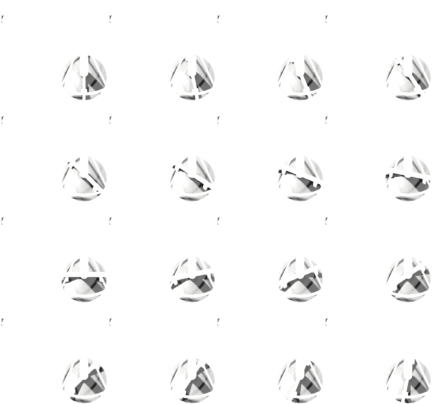
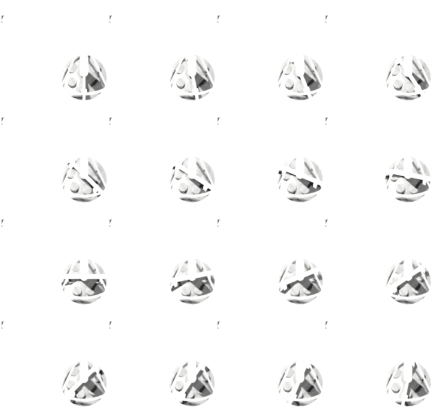
liquid obj update

diff --git a/tools/blender/factorio_render.py b/tools/blender/factorio_render.py
@@ -180,6 +180,75 @@ def torus_at(loc, major, minor, material, rot=(0, 0, 0), segments=40):
     return o
 
 
+def perforated_drum(x, y, z, r_out, wall, h, m, rows=6, per_row=24,
+                    hole_r=0.045, stagger=True, verts=48, name="drum"):
+    """A thin-walled cylinder drilled with a grid of round holes.
+
+    Standing in front of something lit - a glowing rotor, a culture, a flame
+    - the holes are what make it read as a screen rather than as a painted
+    tube. A ring of separate bars does not: at 64 px a tile the gaps between
+    bars close up and it goes back to being a tube.
+
+    The pattern repeats every 360/per_row degrees, and a staggered row is
+    offset by half of one step, so every row shares that same symmetry. A
+    Spin over the sheet must therefore turn the drum by a whole number of
+    steps or the loop jumps - assert it at the call site, the way the fan
+    blades do.
+    """
+    bpy.ops.mesh.primitive_cylinder_add(vertices=verts, radius=r_out,
+                                        depth=h, location=(x, y, z))
+    shell = bpy.context.object
+    shell.name = name
+    shell.data.materials.append(m)
+
+    # Bore and holes are two separate booleans on purpose. Joined into one
+    # cutter they would overlap each other, and the exact solver is much
+    # happier subtracting two clean meshes than one self-intersecting one.
+    bpy.ops.mesh.primitive_cylinder_add(vertices=verts, radius=r_out - wall,
+                                        depth=h + 0.02, location=(x, y, z))
+    bore = bpy.context.object
+
+    step = 2 * math.pi / per_row
+    holes = []
+    for i in range(rows):
+        cz = z - h / 2 + h * (i + 0.5) / rows
+        off = step / 2 if (stagger and i % 2) else 0.0
+        for k in range(per_row):
+            a = k * step + off
+            bpy.ops.mesh.primitive_cylinder_add(
+                vertices=12, radius=hole_r, depth=wall * 4,
+                location=(x + (r_out - wall / 2) * math.cos(a),
+                          y + (r_out - wall / 2) * math.sin(a), cz),
+                rotation=(0, math.pi / 2, a))
+            holes.append(bpy.context.object)
+
+    # One join and one solve. A modifier per hole would be a hundred and
+    # fifty boolean solves every time build() runs, and it runs once per
+    # facing per pass.
+    bpy.ops.object.select_all(action='DESELECT')
+    for o in holes:
+        o.select_set(True)
+    bpy.context.view_layer.objects.active = holes[0]
+    bpy.ops.object.join()
+    drill = bpy.context.object
+
+    for cutter in (bore, drill):
+        mod = shell.modifiers.new("cut", 'BOOLEAN')
+        mod.operation = 'DIFFERENCE'
+        mod.object = cutter
+        bpy.context.view_layer.objects.active = shell
+        bpy.ops.object.modifier_apply(modifier=mod.name)
+
+    # Delete the cutters outright. assemble() asserts that every mesh in the
+    # scene came back from build(), and a cutter left behind would trip it -
+    # which is exactly what that assert is there for.
+    for cutter in (bore, drill):
+        mesh = cutter.data
+        bpy.data.objects.remove(cutter, do_unlink=True)
+        bpy.data.meshes.remove(mesh)
+    return shell
+
+
 def cone_at(x, y, z, r1, r2, h, m, verts=24):
     bpy.ops.mesh.primitive_cone_add(vertices=verts, radius1=r1, radius2=r2,
                                     depth=h, location=(x, y, z + h / 2))

diff --git a/tools/blender/lava_centrifuge.py b/tools/blender/lava_centrifuge.py
@@ -13,7 +13,16 @@ import math                                                   # noqa: E402
 import bpy                                                    # noqa: E402
 import factorio_render as fr                                  # noqa: E402
 from factorio_render import (build_materials, cyl, cyl_at,    # noqa: E402
-                             cone, box, ring_of, MATS)
+                             cone, box, ring_of, perforated_drum, MATS)
+
+SPIN_DEGREES = 120          # three counterweight arms, 120 deg apart
+BASKET_HOLES = 24           # holes round each row of the rotor basket
+# The basket's pattern repeats every 360/BASKET_HOLES degrees. If the sheet
+# does not turn it by a whole number of those, frame 0 and frame 32 show the
+# holes in different places and the loop jumps once a revolution.
+assert (SPIN_DEGREES * BASKET_HOLES) % 360 == 0, \
+    "the basket hole pattern does not close over the sheet"
+
 
 def build():
     bpy.ops.wm.read_factory_settings(use_empty=True)
@@ -50,10 +59,18 @@ def build():
         12, 0.825, 1.395)
 
     # --- rotor (animated) ------------------------------------------------
+    # A drilled basket over the glowing core, not a ring of nine flat bars.
+    # At 64 px a tile the gaps between those bars closed up and the rotor
+    # read as a plain dark tube with a hot edge; through a perforated wall
+    # the glow comes out as a grid of points that is unmistakably turning.
+    #
+    # Outer radius stays inside the static cage bars, whose inner faces sit
+    # at 0.825 - 0.085/2 = 0.782.
     spin.append(cyl(0.68, 0.95, 0.90, m=m['lava'], name="rotorCore"))
-    spin += ring_of(
-        lambda x, y, a, z: box(0.10, 0.055, 0.88, (x, y, z), rot=(0, 0, a), m=m['dark']),
-        9, 0.68, 1.38)
+    assert 0.755 + 0.005 < 0.825 - 0.085 / 2, "rotor basket fouls the cage bars"
+    spin.append(perforated_drum(0, 0, 1.37, 0.755, 0.05, 0.90, m['iron'],
+                                rows=6, per_row=BASKET_HOLES, hole_r=0.045,
+                                name="basket"))
     spin.append(cyl(0.72, 0.05, 0.88, verts=32, m=m['iron'], name="rotorLip"))
 
     # --- top cap + spindle (flat, so it doesn't swallow the drum) --------
@@ -101,4 +118,4 @@ def build():
     return static, spin
 
 
-fr.run(build, spin_degrees=120)   # three arms 120 deg apart -> seamless loop
+fr.run(build, spin_degrees=SPIN_DEGREES)   # arms and basket both close

diff --git a/tools/blender/bio_garden.py b/tools/blender/bio_garden.py
@@ -52,6 +52,11 @@ RAKE_ARMS = 2
 RAKE_SPIN = 360 / RAKE_ARMS     # a bridge, so half a turn closes it
 RAKE_Z = 0.74
 RAKE_REACH = PAN_R * 0.95       # the bridge stops just short of the pan rim
+
+POOL_R = 0.36                   # the recipe-tinted mound at the feedwell
+POOL_LOBES = 6
+POOL_SPIN = 360 / POOL_LOBES    # one lobe per sheet, so the swirl closes
+assert POOL_R + 0.08 < RAKE_REACH, "the pool reaches past the rake bridge"
 assert RAKE_Z + 0.10 < dome_z(RAKE_REACH), "rake bridge hits the dome"
 
 # The hopper and the press both sit outside the glass, on the near corners.
@@ -187,9 +192,22 @@ def build():
     # whatever base grey it was given, and the machine wore a sheet of
     # poster green. A cone this size shades across itself and reads as wet
     # pulp coming up the feedwell.
-    pool = cone_at(0, 0, PAN_Z + 0.105, 0.36, 0.11, 0.08, m['pulp'])
-    add(pool)
-    fr.TINT.append(pool)
+    # The mound, and a ring of lumps riding just under its surface, turning
+    # together. A real fluid solve cannot be made to close over 16 frames -
+    # a simulation is a transient, so its last frame never matches its
+    # first - but a lobed surface rotating by exactly one lobe closes by
+    # construction, and at this size that is what stirred slurry looks like.
+    pool = [cone_at(0, 0, PAN_Z + 0.105, POOL_R, 0.11, 0.08, m['pulp'])]
+    for i in range(POOL_LOBES):
+        a = 2 * math.pi * i / POOL_LOBES
+        pool.append(cyl_at(POOL_R * 0.58 * math.cos(a),
+                           POOL_R * 0.58 * math.sin(a),
+                           PAN_Z + 0.15, 0.075, 0.05, m['pulp'], verts=12))
+    # Into the group and the tint layer only. In `static` as well and
+    # assemble() would parent them last, quietly undoing the group.
+    for o in pool:
+        fr.TINT.append(o)
+    spin.append(Spin(pool, degrees=POOL_SPIN))
     add(cyl_at(0, 0, PAN_Z + 0.10, 0.16, 0.14, m['dark'], verts=16))
 
     # --- glass dome -------------------------------------------------------

diff --git a/docs/blender-renders.md b/docs/blender-renders.md
@@ -238,6 +238,43 @@ everything on it spins, one part that does not is worth more than another fan.
 A moving part still has to have a job: a wheel turning on the side of a
 condenser is decoration, a ram pumping condensate is the machine working.
 
+### Screens, liquid and smoke
+
+Three things that look like they need a simulation, and do not.
+
+**A perforated drum** is `perforated_drum()`: a thin-walled cylinder, one
+boolean for the bore and a second for the joined hole cutters, with the
+cutters deleted afterwards so the stray-object assert stays honest. In front
+of something lit - a glowing rotor, a culture - it is worth far more than a
+ring of bars, which closes up into a plain tube at this size. Its pattern
+repeats every `360/per_row` degrees, so the sheet must turn it by a whole
+number of those; assert that at the call site, as `lava_centrifuge.py` does.
+
+**Moving liquid** does not want Mantaflow, and not because baking is slow: a
+simulation is a transient, so its last frame never matches its first, and
+nothing makes a seamless 16-frame loop out of one. A surface with N lobes
+turning by exactly one lobe over the sheet closes by construction, and at 64
+px a tile that is what stirred liquid looks like. The bio garden's pulp is a
+cone with six lumps riding on it, turning 60 degrees.
+
+**Smoke does not belong in the render at all.** A volume is slow in Cycles,
+does not loop, and misbehaves in both the shadow pass (it confuses the shadow
+catcher) and the tint pass (it will not hold out cleanly). Let Factorio draw
+it: `utils.stack_smoke()` builds three working visualisations up one line,
+each larger, fainter and slower than the last, which reads as a plume rising
+and thinning. Two traps:
+
+- `smoke` is a field on generators, boilers and reactors, **not** on crafting
+  machines. An assembling machine ignores it in silence, so the data stage
+  loads clean, `data-raw-dump.json` shows the field - it dumps the Lua table,
+  not the loaded prototype - and nothing ever appears in game.
+- Put the plume at the top of the machine by **measuring the sheet**, not by
+  working it back from the camera angle. The tallest point is rarely over the
+  entity centre, so the vertical factor comes out different for every model.
+  Find the highest opaque row, take the centroid of the pixels just below it,
+  and convert with the sheet's own `shift` - and do it per facing, because a
+  stack that is off-centre swings across the sprite as the machine turns.
+
 ### Frame count and symmetry
 
 Spin the parts by **one** symmetry step over the whole sheet, not several. The
